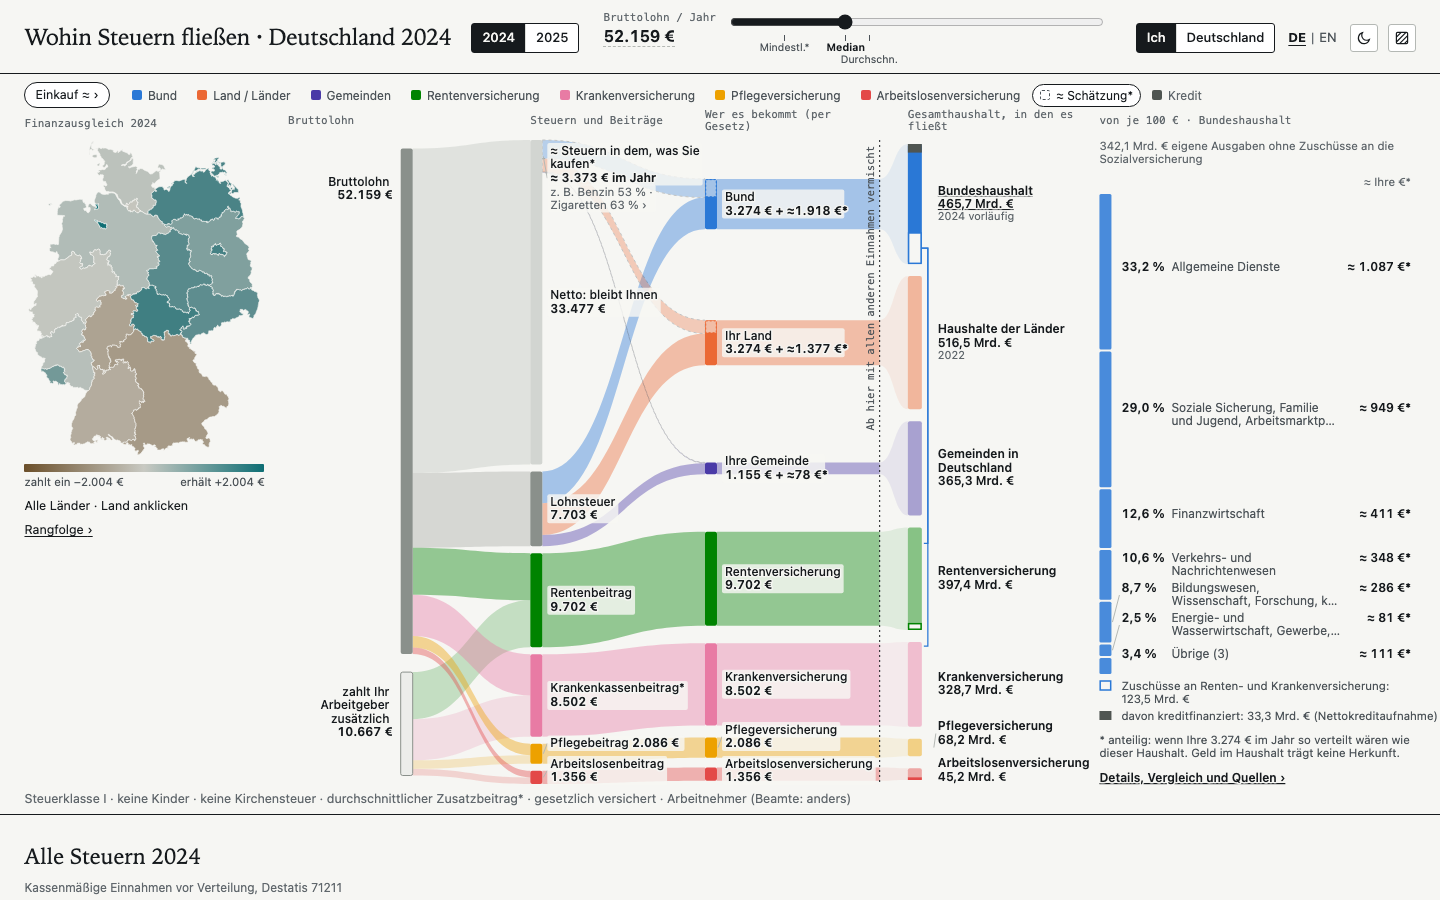
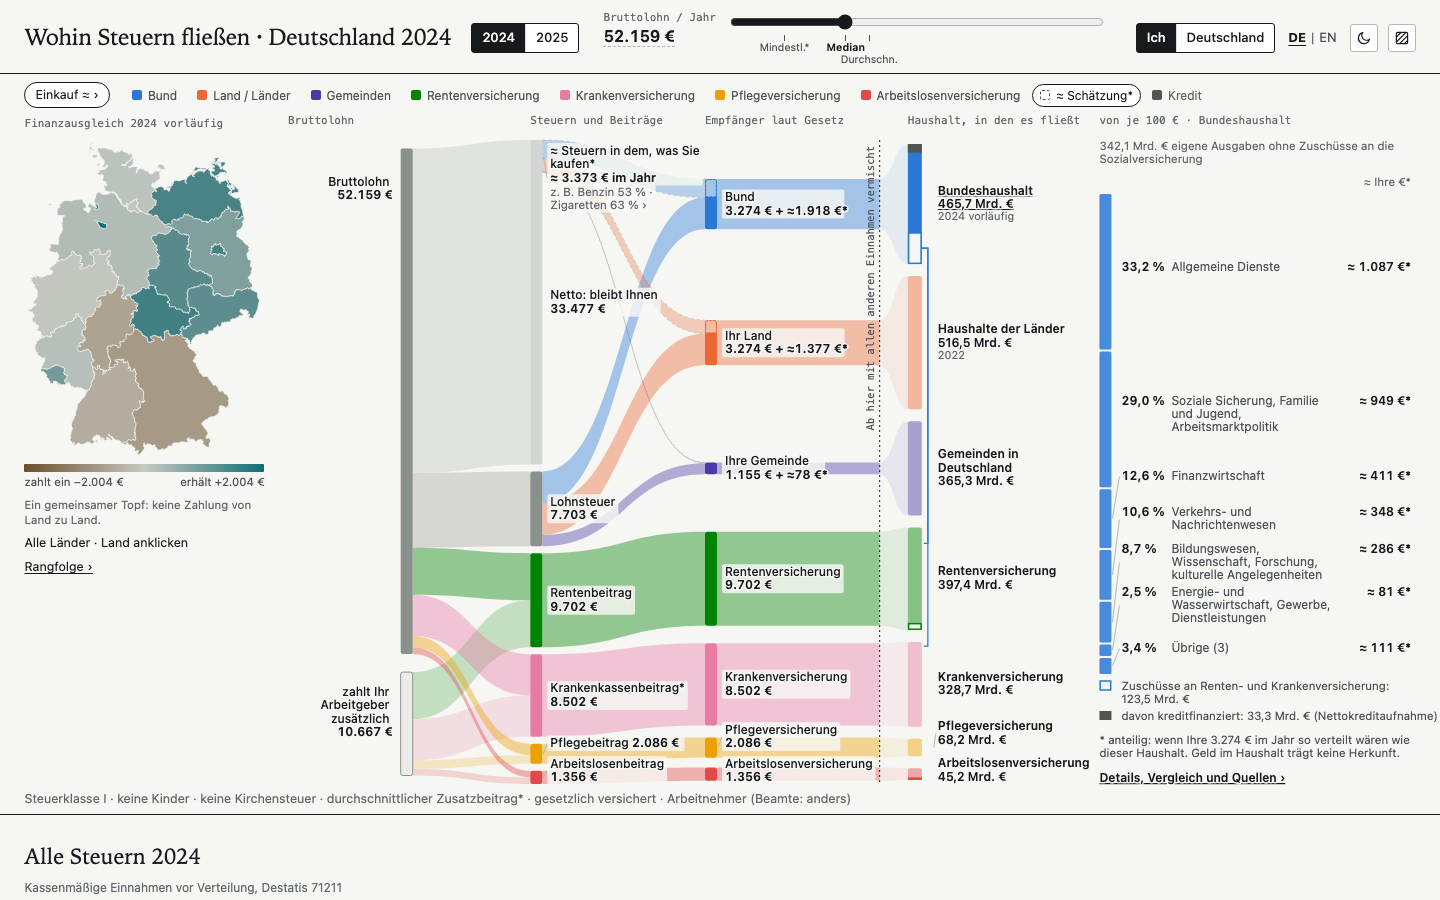
Fix wrapped headers and broken labels on desktop
Stage headers shrink slightly to stay on one line before wrapping, and
two German headers are shorter. Long category names in the budget column
get a third line when there is room instead of an ellipsis. Text
wrapping now breaks only at ordinary spaces, so 'inheritance …)' stays
together. The local-taxes label in the Germany view is shorter in both
languages.

diff --git a/src/viz/hero.ts b/src/viz/hero.ts
@@ -146,6 +146,12 @@ function stageLabel(svg: SVGSVGElement, x: number, text: string, anchor: "start"
     svgEl(svg, "text", { x, y: 14, class: "stage-label", "text-anchor": anchor }, text);
     return;
   }
+  // a slightly smaller single line reads better than a wrapped header that crowds the chart
+  const size = (11 * maxWidth) / (text.length * charW);
+  if (size >= 9.5) {
+    svgEl(svg, "text", { x, y: 14, class: "stage-label", "text-anchor": anchor, style: `font-size:${size.toFixed(2)}px` }, text);
+    return;
+  }
   const words = text.split(" ");
   let first = "";
   while (words.length && `${first} ${words[0]}`.trim().length * charW <= maxWidth) {
@@ -757,9 +763,18 @@ export function renderComposition(svg: SVGSVGElement, pot: Pot, inflow: number, 
     return seg;
   });
   const labelX = o.x + barW + 10;
+  // long category names get a third line when every row still fits; otherwise two lines with "…"
+  const nameWidth = o.width - barW - 72 - yoursW;
+  const nameOf = (cat: (typeof cats)[number], lines: number) => wrap(`${tr(cat.label, lang)}${cat.star ? "*" : ""}`, nameWidth, 12, 400, lines);
+  let names = cats.map((cat) => nameOf(cat, 3));
+  let rowGap = names.some((lines) => lines.length > 2) ? 43 : 30;
+  if (cats.length * rowGap > barBottom - barTop - 6) {
+    names = cats.map((cat) => nameOf(cat, 2));
+    rowGap = 30;
+  }
   const placed = spreadLabels(
     segs.map((s) => s.y + s.h / 2),
-    30,
+    rowGap,
     barTop + 6,
     barBottom,
   );
@@ -773,7 +788,7 @@ export function renderComposition(svg: SVGSVGElement, pot: Pot, inflow: number, 
     if (Math.abs(ly - (s.y + s.h / 2)) > s.h / 2) {
       svgEl(segG, "path", { d: `M${o.x + barW + 1},${s.y + s.h / 2}L${labelX - 2},${ly - 4}`, class: "leader" });
     }
-    const nameLines = wrap(`${tr(s.cat.label, lang)}${s.cat.star ? "*" : ""}`, o.width - barW - 72 - yoursW, 12, 400, 2);
+    const nameLines = names[index]!;
     const ty = ly - 1 - (nameLines.length - 1) * 6.5;
     svgEl(segG, "text", { x: labelX, y: ty, class: "comp-pct num strong" }, pct(share, lang, 1));
     multiline(segG, nameLines, { x: labelX + 50, y: ty, class: "comp-name" }, 13);

diff --git a/src/data/model.ts b/src/data/model.ts
@@ -1141,11 +1141,11 @@ export function buildGermany(year = 2024): GermanyModel {
     label: bi("Steuern auf Kapitalerträge", "Taxes on capital income"),
     parts: [...capital.entries()].map(([to, value]) => ({ to, value })),
   });
-  taxNodes.push({ id: "STEUERNVB20", label: bi("Bundessteuern (Energie, Tabak, Soli …)", "Federal taxes (energy, tobacco, soli …)"), parts: [{ to: "fed", value: taxValue("STEUERNVB20", Y), share: 1 }] });
-  taxNodes.push({ id: "STEUERNVL20", label: bi("Landessteuern (Grunderwerb, Erbschaft …)", "Länder taxes (real estate, inheritance …)"), parts: [{ to: "land", value: taxValue("STEUERNVL20", Y), share: 1 }] });
+  taxNodes.push({ id: "STEUERNVB20", label: bi("Bundessteuern (Energie, Tabak, Soli\u00a0…)", "Federal taxes (energy, tobacco, soli\u00a0…)"), parts: [{ to: "fed", value: taxValue("STEUERNVB20", Y), share: 1 }] });
+  taxNodes.push({ id: "STEUERNVL20", label: bi("Landessteuern (Grunderwerb, Erbschaft\u00a0…)", "Länder taxes (real estate, inheritance\u00a0…)"), parts: [{ to: "land", value: taxValue("STEUERNVL20", Y), share: 1 }] });
   taxNodes.push({
     id: "municipal-other",
-    label: bi("Grundsteuer und übrige Gemeindesteuern", "Property tax and other local taxes"),
+    label: bi("Grundsteuer u.\u00a0a.", "Property and local taxes"),
     parts: [{ to: "muni", value: taxValue("STEUERNVK20", Y) - taxValue("STEUERARTK30", Y), share: 1 }],
   });
   taxNodes.push({ id: "STEUERARTZ10", label: allocation("STEUERARTZ10").label, parts: [{ to: "eu", value: taxValue("STEUERARTZ10", Y), share: 1 }] });

diff --git a/src/i18n.ts b/src/i18n.ts
@@ -38,8 +38,8 @@ const ui = {
   ),
   stageGross: bi("Bruttolohn", "Gross wage"),
   stageDeductions: bi("Steuern und Beiträge", "Taxes and contributions"),
-  stageRecipients: bi("Wer es bekommt (per Gesetz)", "Who receives it (by law)"),
-  stagePots: bi("Gesamthaushalt, in den es fließt", "Total budget it goes into"),
+  stageRecipients: bi("Empfänger laut Gesetz", "Who receives it (by law)"),
+  stagePots: bi("Haushalt, in den es fließt", "Total budget it goes into"),
   stageTaxes: bi("Steuern und Beiträge (Kasse)", "Taxes and contributions (cash)"),
   stateRevenue: bi("Einnahmen des Staates", "State revenue"),
   stateSpending: bi("Ausgaben des Staates", "State spending"),

diff --git a/src/viz/svg.ts b/src/viz/svg.ts
@@ -40,7 +40,8 @@ export function textWidth(text: string, size = 12, weight = 400): number {
 
 /** Greedy word wrap into at most `maxLines` lines; the last line is ellipsised when words remain. */
 export function wrap(text: string, maxWidth: number, size = 12, weight = 400, maxLines = 2): string[] {
-  const words = text.split(/\s+/).filter(Boolean);
+  // break only at ordinary spaces: a no-break space (U+00A0) keeps "inheritance …)" together
+  const words = text.split(/[ \t\n]+/).filter(Boolean);
   const lines: string[] = [];
   let current = "";
   for (let i = 0; i < words.length; i += 1) {
